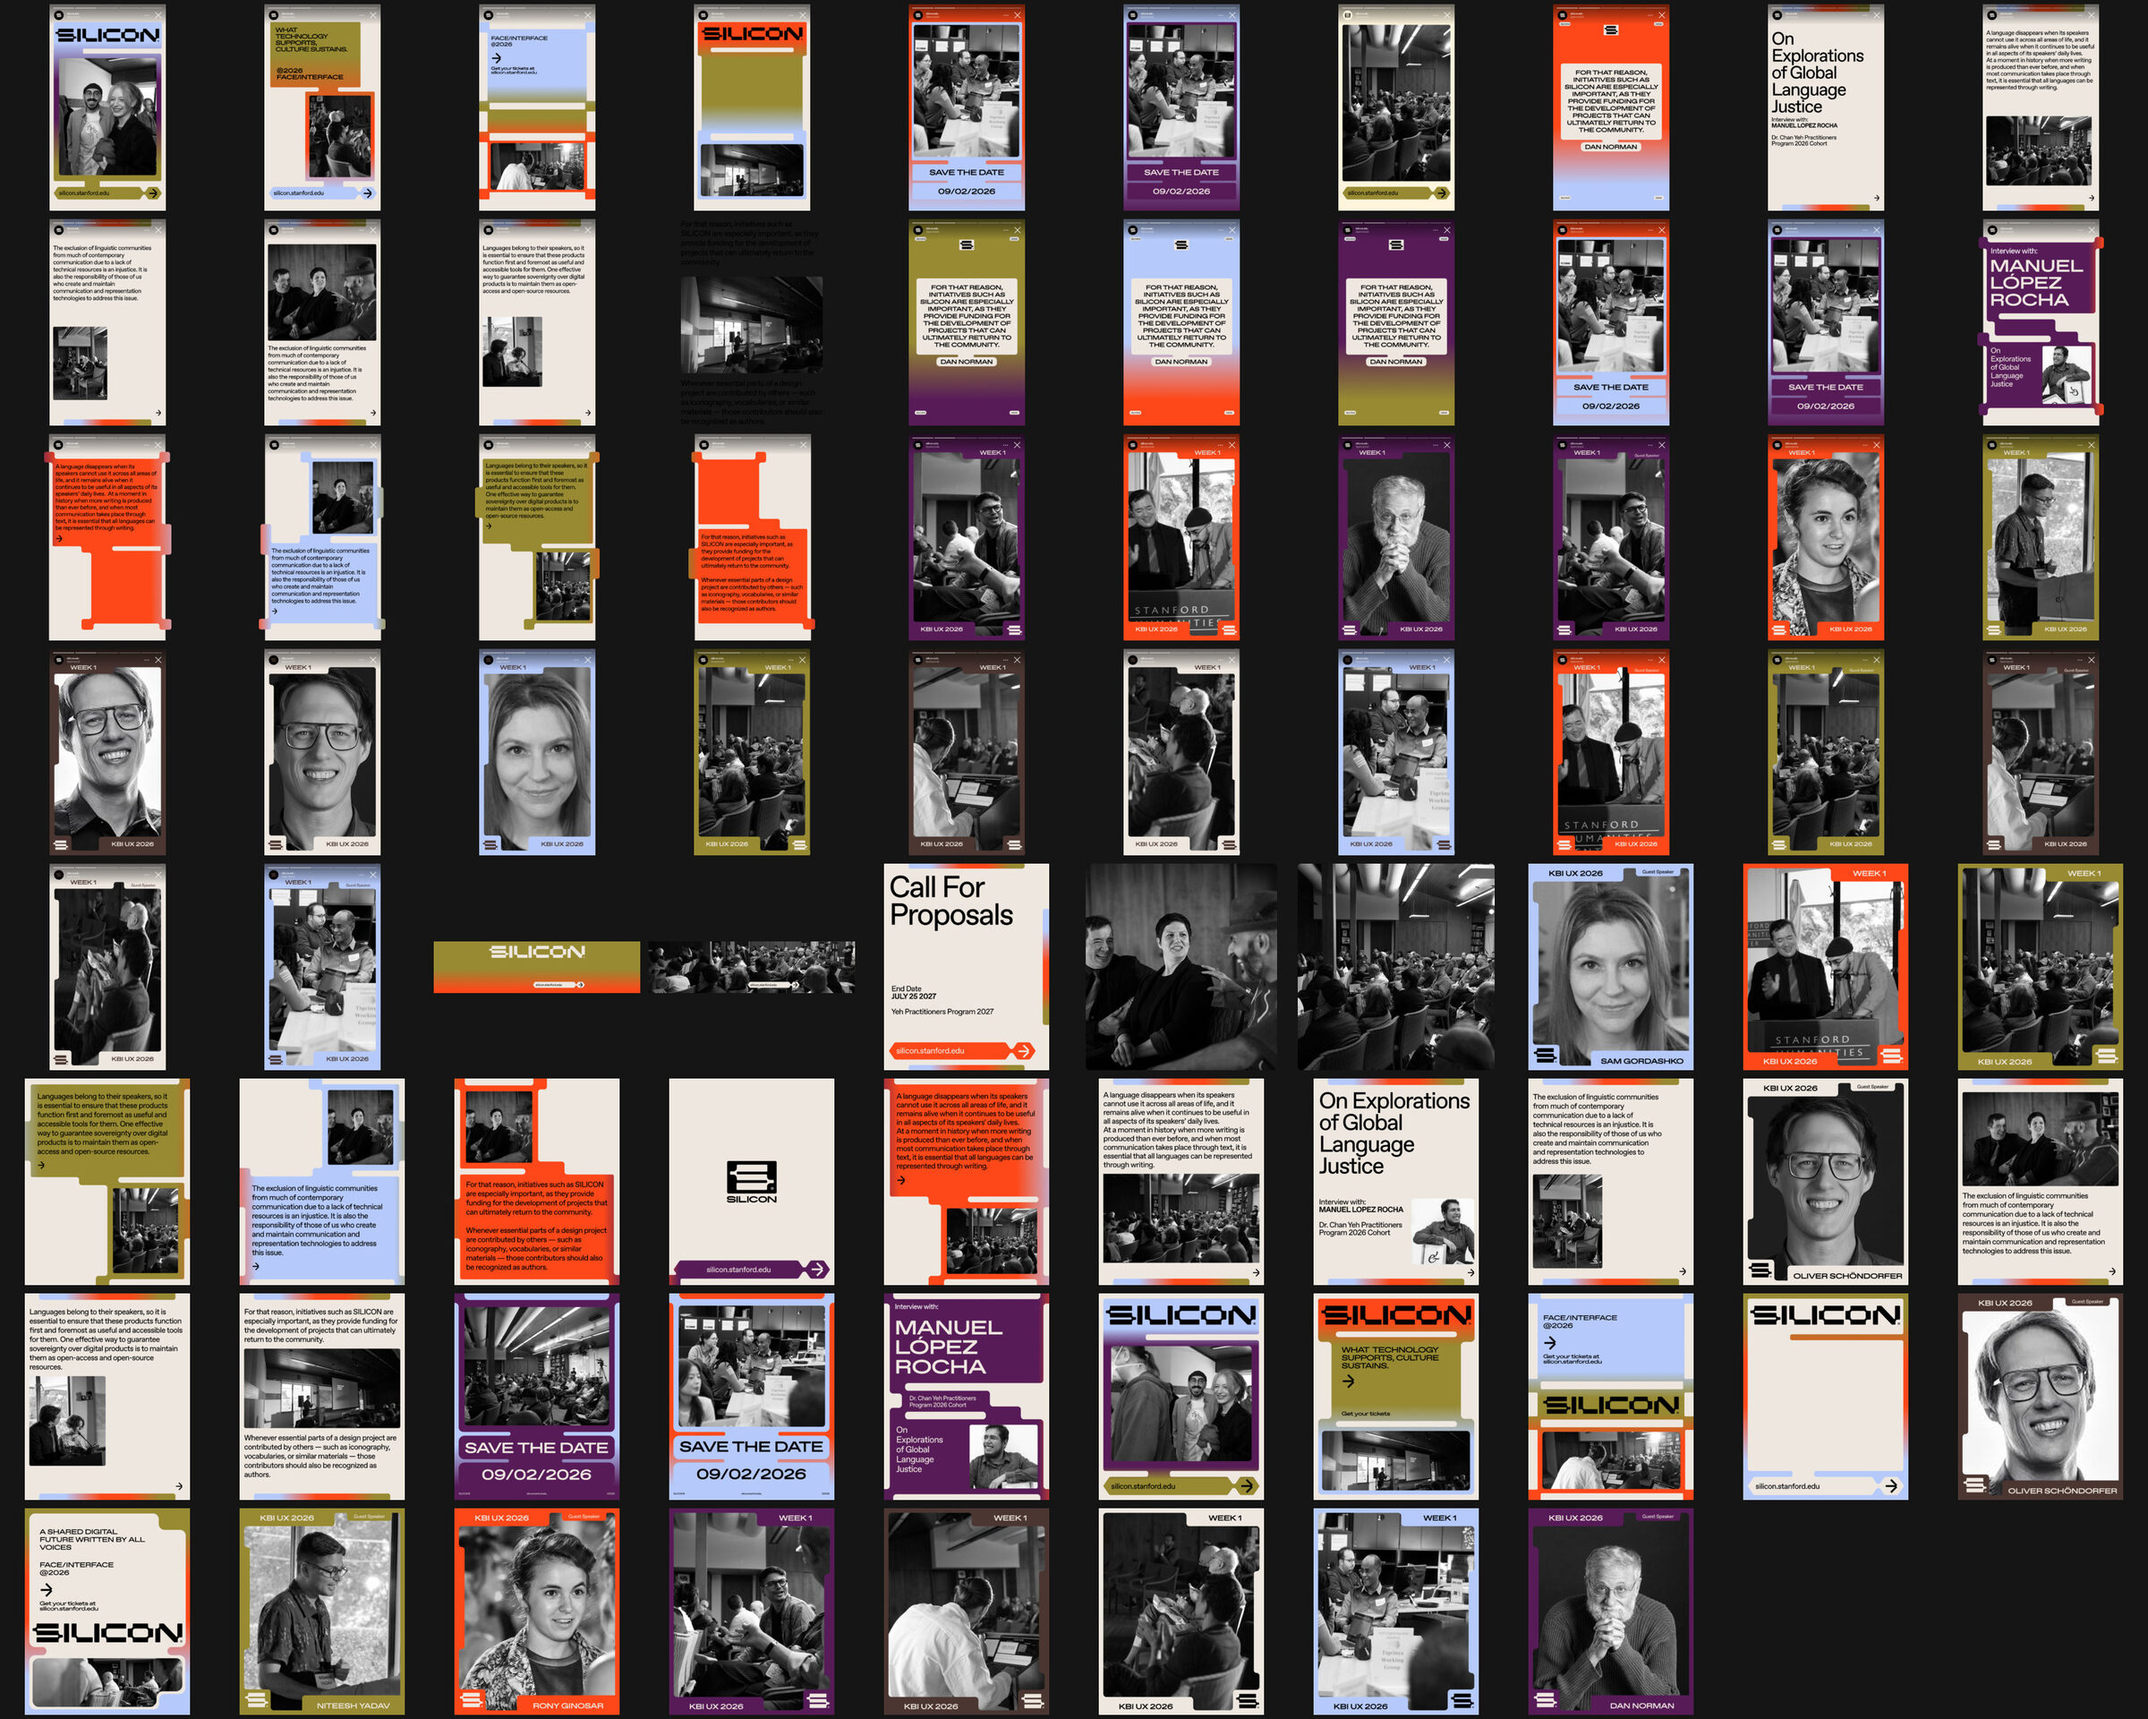
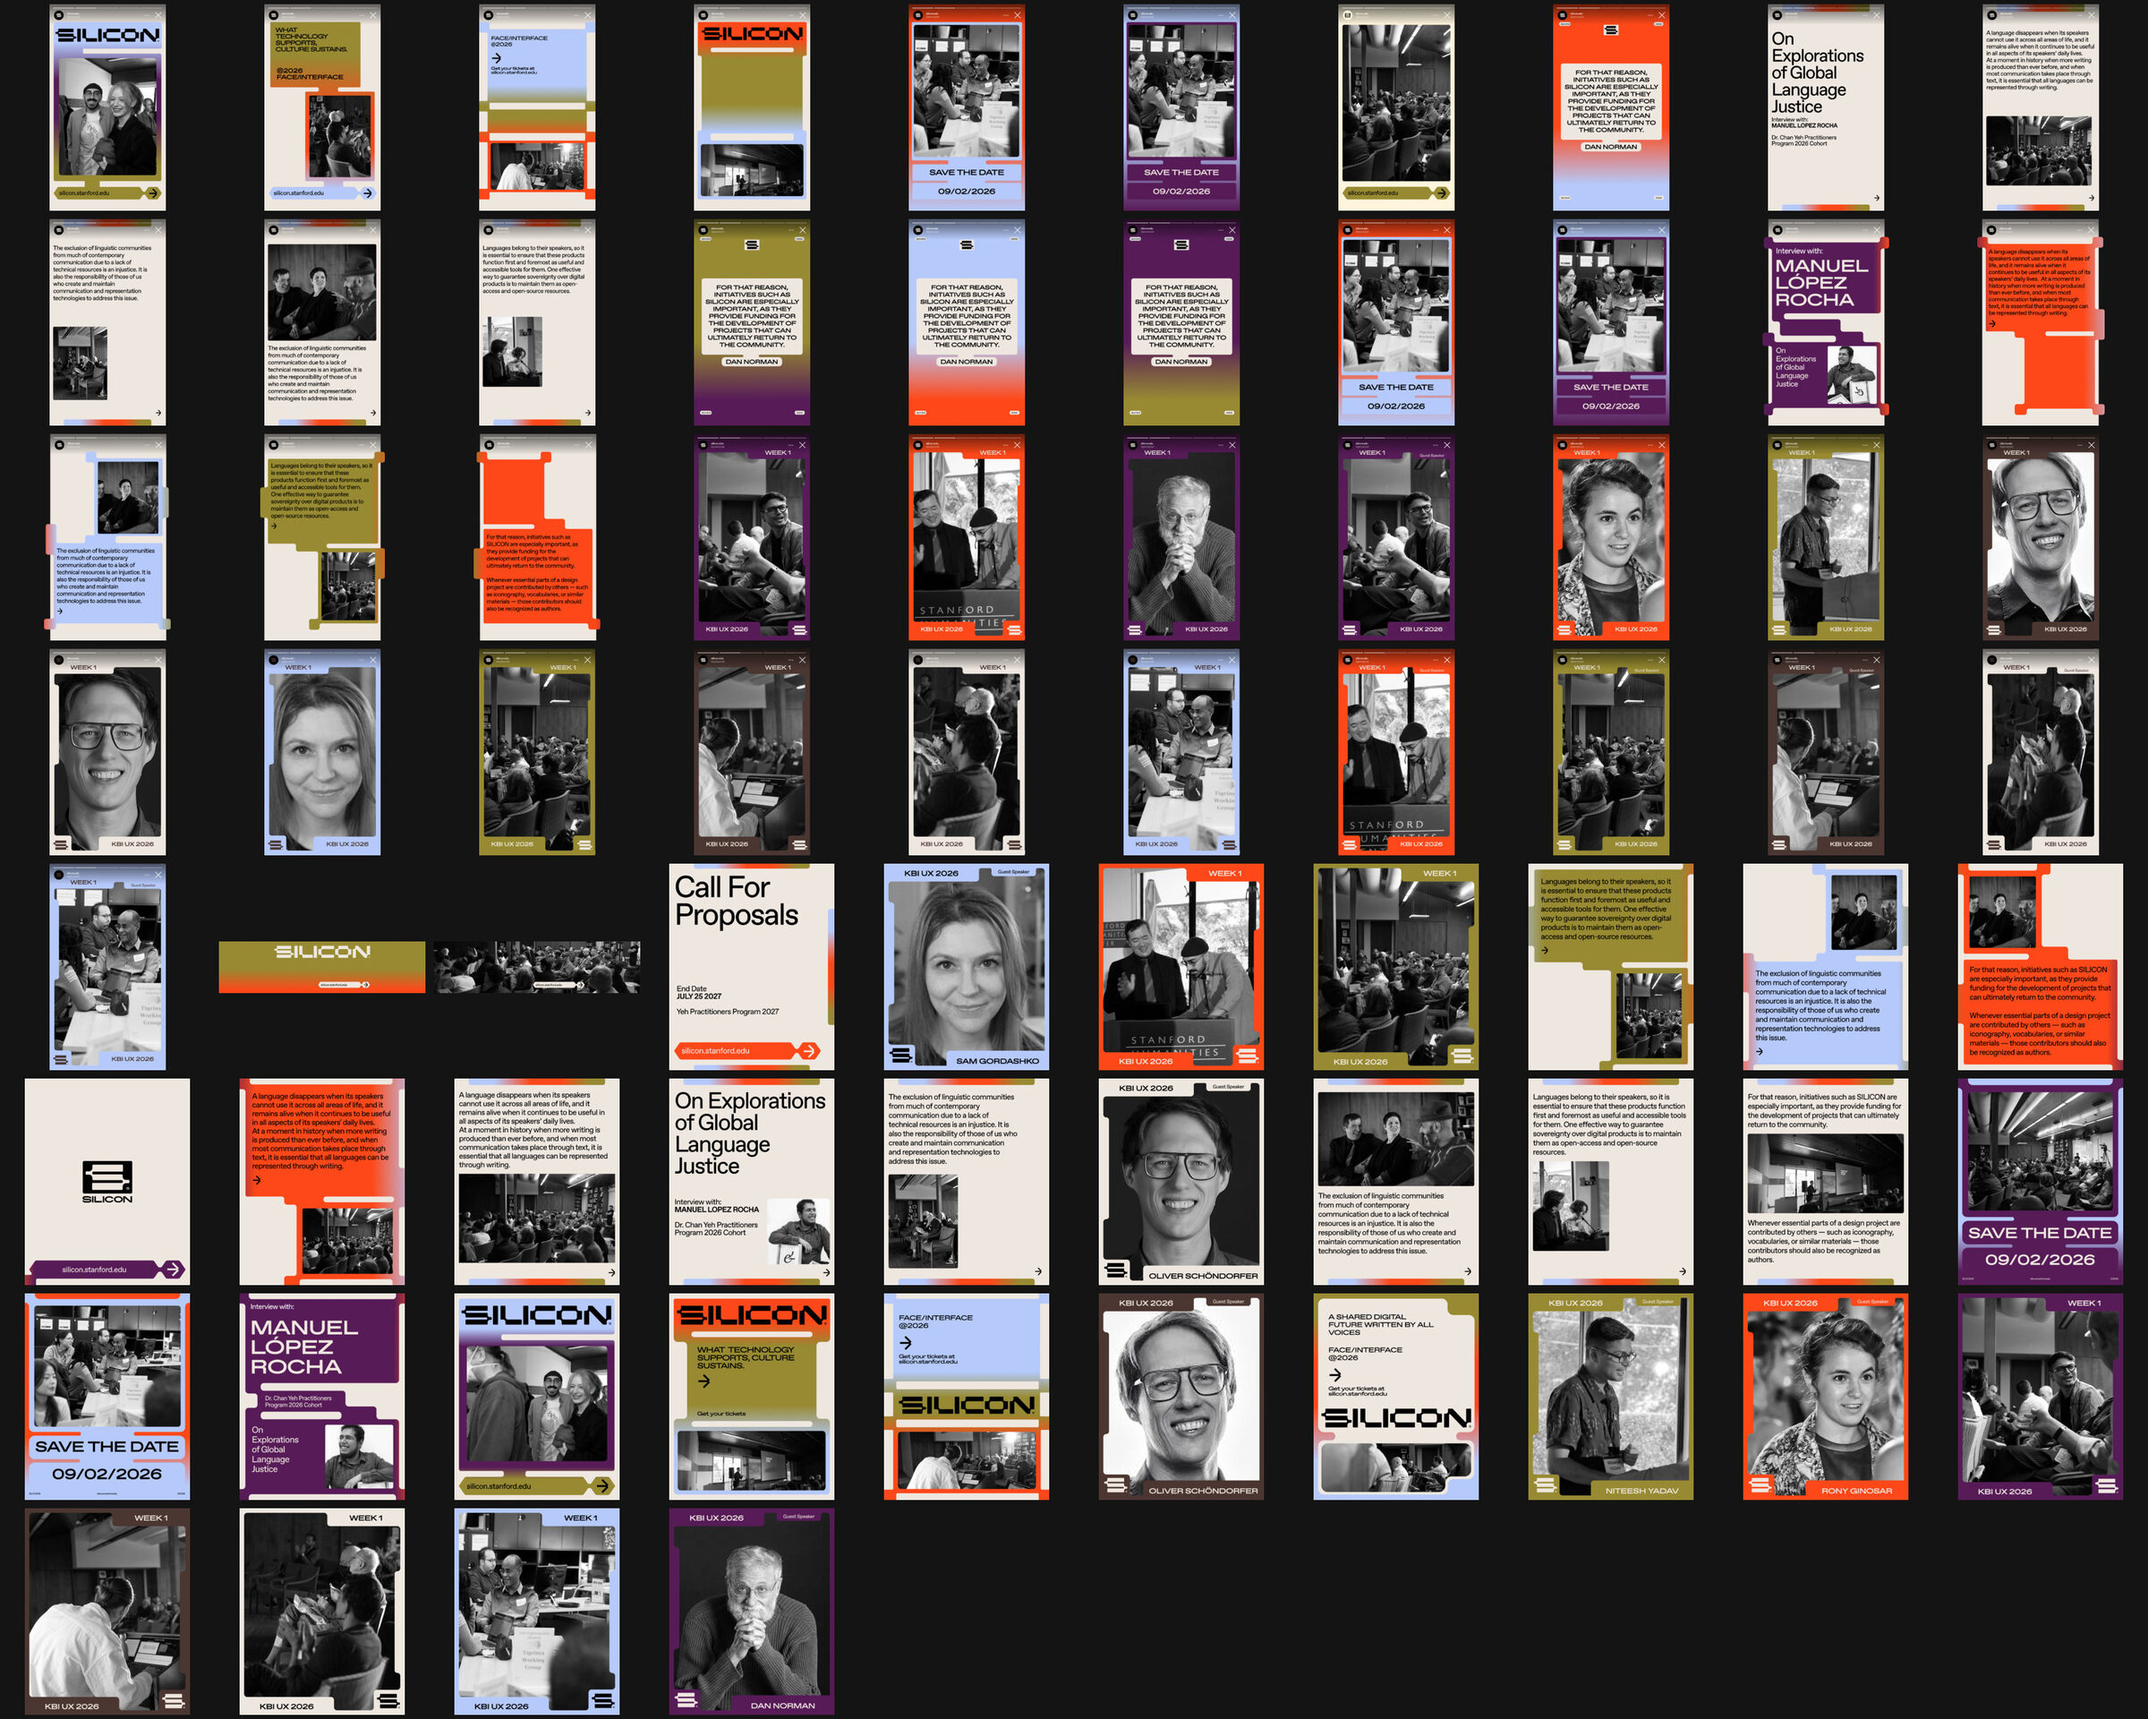
SILICON: remove blank post, smaller speaker portraits, full set without photos
Claude-Session: https://claude.ai/code/session_01H22FaFJeSVuZbufz8fRRi4

diff --git a/works.js b/works.js
@@ -247,7 +247,7 @@ const LOCAL_MEDIA = {
   "13.jpg"
  ],
  "generational-cursive": ["1.mp4","2.mp4","4.mp4","5.mp4","6.mp4","7.mp4","8.mp4","9.mp4","11.mp4","12.mp4","13.mp4"],
- "silicon-stanford": ["01.jpg","02.jpg","03.jpg","04.jpg","05.jpg","17.jpg","09.jpg","10.jpg","p-logo.jpg","p-blank.jpg","07.jpg","c1-2.jpg","c1-3.jpg","c1-4.jpg","c1-5.jpg","06.jpg","c2-2.jpg","c2-3.jpg","c2-4.jpg","08.jpg","s1-2.jpg","s1-3.jpg","s1-4.jpg","s1-5.jpg","s2-1.jpg","s2-2.jpg","s2-3.jpg","s2-4.jpg","s2-5.jpg","16.jpg","e-2.jpg","e-3.jpg","e-4.jpg","e-5.jpg","12.jpg","13.jpg","14.jpg","15.jpg","21.jpg","bc-2.jpg","22.jpg","k-1.jpg","k-2.jpg","k-3.jpg","ig-profile.jpg","ig-post-1.jpg","ig-post-2.jpg","ig-post-3.jpg","sheet.jpg"],
+ "silicon-stanford": ["01.jpg","02.jpg","03.jpg","04.jpg","05.jpg","17.jpg","09.jpg","10.jpg","p-logo.jpg","07.jpg","c1-2.jpg","c1-3.jpg","c1-4.jpg","c1-5.jpg","06.jpg","c2-2.jpg","c2-3.jpg","c2-4.jpg","08.jpg","s1-2.jpg","s1-3.jpg","s1-4.jpg","s1-5.jpg","s2-1.jpg","s2-2.jpg","s2-3.jpg","s2-4.jpg","s2-5.jpg","16.jpg","e-2.jpg","e-3.jpg","e-4.jpg","e-5.jpg","12.jpg","13.jpg","14.jpg","15.jpg","21.jpg","bc-2.jpg","22.jpg","k-1.jpg","k-2.jpg","k-3.jpg","ig-profile.jpg","ig-post-1.jpg","ig-post-2.jpg","ig-post-3.jpg","sheet.jpg"],
  "hooked": [
   "1.mp4",
   "2.mp4",
@@ -269,13 +269,13 @@ const SECTIONS = {
   "silicon-stanford": [
     ["Logotype", "wide", ["01.jpg"]],
     ["Posters", "grid", ["02.jpg","03.jpg","04.jpg","05.jpg","17.jpg"]],
-    ["Social posts", "grid", ["09.jpg","10.jpg","p-logo.jpg","p-blank.jpg"]],
+    ["Social posts", "grid", ["09.jpg","10.jpg","p-logo.jpg"]],
     ["Carousel: On Explorations of Global Language Justice", "set", ["07.jpg","c1-2.jpg","c1-3.jpg","c1-4.jpg","c1-5.jpg"]],
     ["Carousel: Interview with Manuel López Rocha", "set", ["06.jpg","c2-2.jpg","c2-3.jpg","c2-4.jpg"]],
     ["Story: Interview with Manuel López Rocha", "set", ["08.jpg","s1-2.jpg","s1-3.jpg","s1-4.jpg","s1-5.jpg"]],
     ["Story: On Explorations of Global Language Justice", "set", ["s2-1.jpg","s2-2.jpg","s2-3.jpg","s2-4.jpg","s2-5.jpg"]],
     ["Story: Face/Interface 2026", "set", ["16.jpg","e-2.jpg","e-3.jpg","e-4.jpg","e-5.jpg"]],
-    ["Speaker portraits", "grid", ["12.jpg","13.jpg","14.jpg","15.jpg"]],
+    ["Speaker portraits", "small", ["12.jpg","13.jpg","14.jpg","15.jpg"]],
     ["Stationery & partnerships", "grid", ["21.jpg","bc-2.jpg","22.jpg","k-1.jpg","k-2.jpg","k-3.jpg"]],
     ["On Instagram, @stanfordsilicon", "grid", ["ig-profile.jpg","ig-post-1.jpg","ig-post-2.jpg","ig-post-3.jpg"]],
     ["Full set", "wide", ["sheet.jpg"]]

diff --git a/style.css b/style.css
@@ -167,6 +167,7 @@ aside dd{margin:0}
 .pp-sec figcaption{margin-top:8px}
 .pp-sec img,.pp-sec video{display:block;width:100%;height:auto}
 .pk-wide img{max-height:none}
+.pk-small{display:grid;grid-template-columns:repeat(auto-fill,minmax(min(200px,100%),1fr));gap:clamp(16px,2vw,28px);align-items:start;max-width:960px}
 .pk-grid{display:grid;grid-template-columns:repeat(auto-fill,minmax(min(340px,100%),1fr));gap:clamp(24px,3vw,44px);align-items:start}
 /* a carousel or story: one numbered strip on its own band, so it reads as a single piece */
 .pk-set{display:flex;gap:clamp(10px,1.2vw,16px);overflow-x:auto;scroll-snap-type:x mandatory;padding:clamp(16px,2vw,28px);
